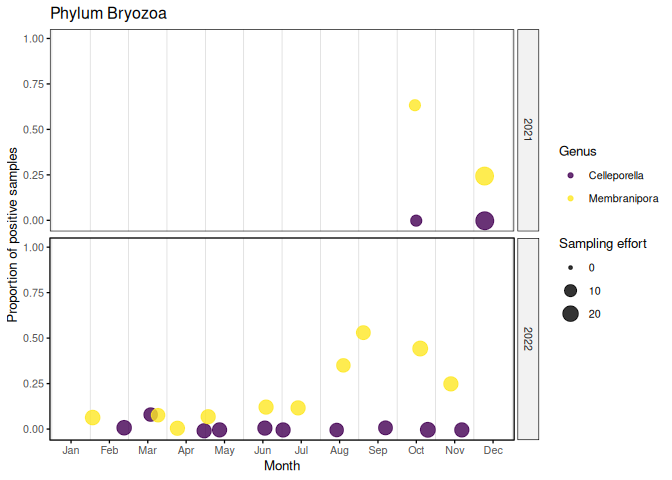
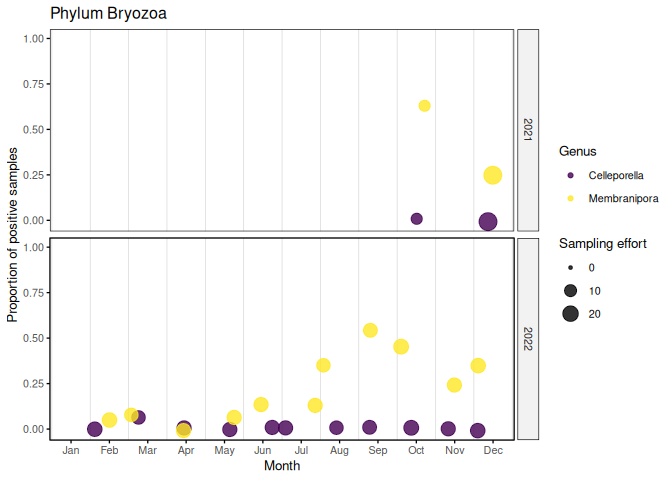
CST-242 add dockerfile

diff --git a/README.md b/README.md
@@ -107,6 +107,19 @@ thresh_fig(taxon.level = "species", taxon.name = "Acartia hudsonica",
 
 ### Shiny
 
+Once the package loaded, the shiny can be launched using the following
+function.
+
 ``` r
 run_gotedna_app()
+```
+
+There is also a docker file available:
+
+``` sh
+# build the container 
+docker build -t gotedna . 
+# use the container
+docker run -it --rm --network host gotedna 
+# the shiny will be available at http://0.0.0.0:9292
 ```
